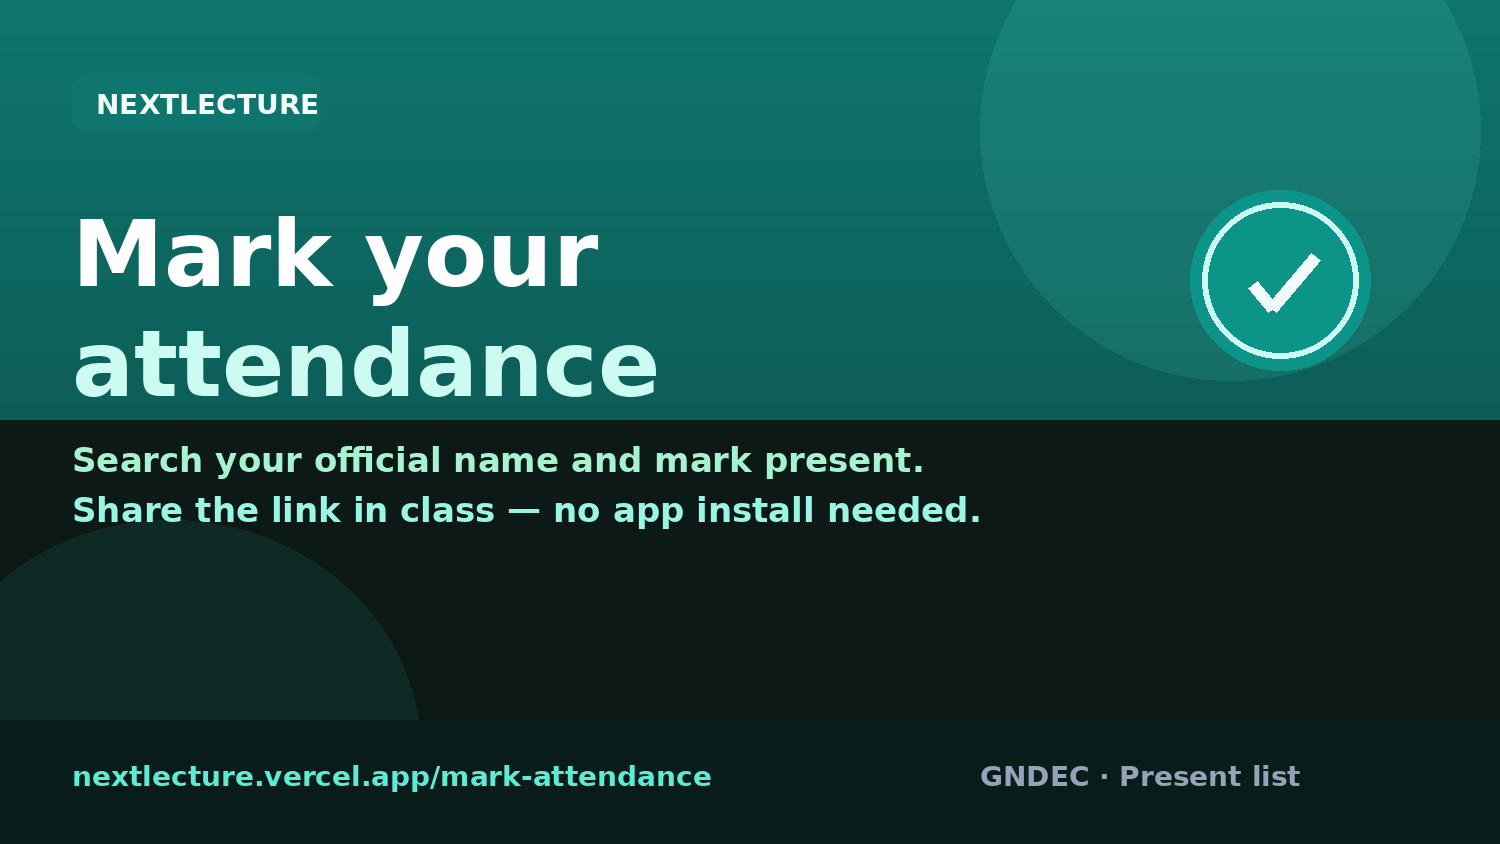
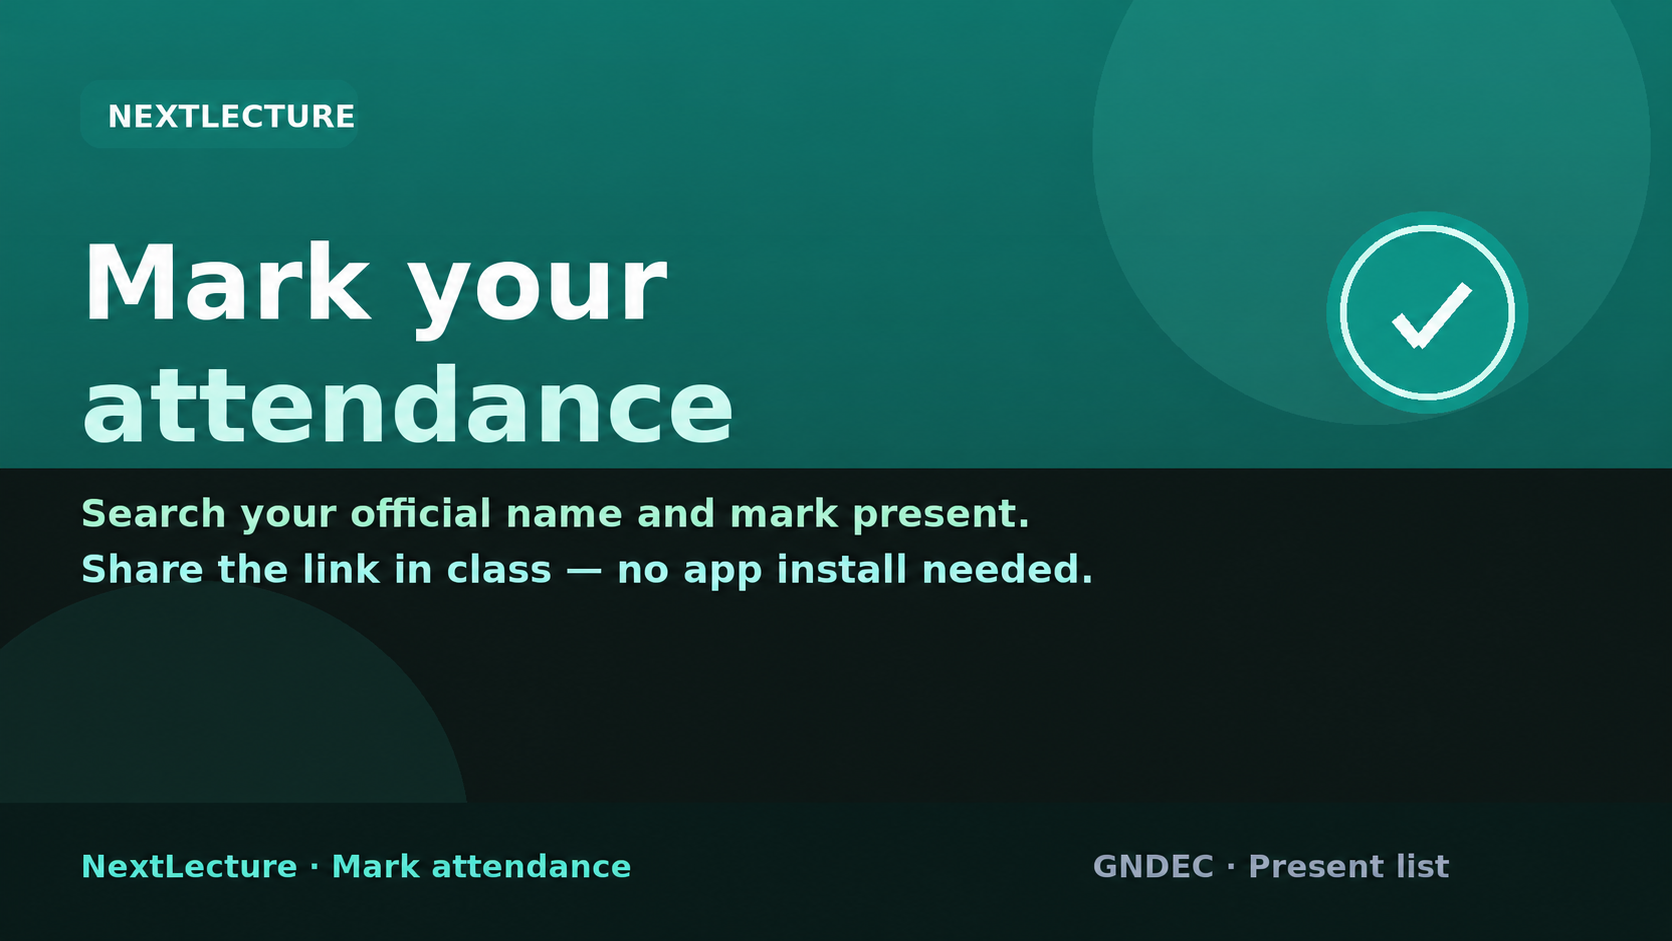
fix: make mark attendance preview domain neutral

diff --git a/api/index.js b/api/index.js
@@ -3516,8 +3516,8 @@ function escapeHtml(value) {
   return value.replace(/&/g, "&amp;").replace(/</g, "&lt;").replace(/>/g, "&gt;").replace(/"/g, "&quot;").replace(/'/g, "&#39;");
 }
 function absoluteUrl(req, path) {
-  const host = req.get("x-forwarded-host") || req.get("host") || "nextlecture.vercel.app";
-  const proto = (req.get("x-forwarded-proto") || "https").split(",")[0].trim();
+  const host = req.get("x-forwarded-host") || req.get("host") || "localhost";
+  const proto = (req.get("x-forwarded-proto") || (process.env.NODE_ENV === "production" ? "https" : "http")).split(",")[0].trim();
   return `${proto}://${host}${path}`;
 }
 function buildPreviewMeta(opts) {
@@ -3556,8 +3556,8 @@ async function handleMarkAttendancePage(req, res) {
   const pagePath = sessionId ? `/mark-attendance/${encodeURIComponent(sessionId)}` : "/mark-attendance";
   const pageUrl = absoluteUrl(req, pagePath);
   const imageUrl = absoluteUrl(req, "/og-mark-attendance.png");
-  const host = req.get("x-forwarded-host") || req.get("host") || "nextlecture.vercel.app";
-  const proto = (req.get("x-forwarded-proto") || "https").split(",")[0].trim();
+  const host = req.get("x-forwarded-host") || req.get("host") || "localhost";
+  const proto = (req.get("x-forwarded-proto") || (process.env.NODE_ENV === "production" ? "https" : "http")).split(",")[0].trim();
   const indexResponse = await fetch(`${proto}://${host}/index.html`);
   if (!indexResponse.ok) {
     throw new Error(`Could not load SPA shell (${indexResponse.status})`);
@@ -3579,6 +3579,7 @@ function handleMarkAttendanceOgImage(req, res) {
   const branch = typeof req.query.branch === "string" ? req.query.branch.trim().slice(0, 12) : "";
   const count = Math.max(0, Number.parseInt(String(req.query.count ?? "0"), 10) || 0);
   const safe = (value) => value.replace(/&/g, "&amp;").replace(/</g, "&lt;").replace(/>/g, "&gt;").replace(/"/g, "&quot;");
+  const footerUrl = safe(absoluteUrl(req, "/mark-attendance"));
   const subtitle = count > 0 ? `${count} marked present${branch ? ` \xB7 ${branch}` : ""}` : branch ? `${branch} \xB7 Mark present` : "Search your name and mark present";
   const words = subject.split(" ");
   let line1 = subject;
@@ -3616,7 +3617,7 @@ function handleMarkAttendanceOgImage(req, res) {
   <circle cx="1280" cy="300" r="72" fill="none" stroke="#ccfbf1" stroke-width="6"/>
   <path d="M1248 304 L1268 324 L1318 268" fill="none" stroke="#f0fdfa" stroke-width="14" stroke-linecap="round" stroke-linejoin="round"/>
   <rect x="0" y="720" width="1500" height="124" fill="#081c1a"/>
-  <text x="72" y="790" font-family="Manrope, system-ui, sans-serif" font-size="28" font-weight="600" fill="#5eead4">nextlecture.vercel.app/mark-attendance</text>
+  <text x="72" y="790" font-family="Manrope, system-ui, sans-serif" font-size="28" font-weight="600" fill="#5eead4">${footerUrl}</text>
   <text x="1100" y="790" font-family="Manrope, system-ui, sans-serif" font-size="26" font-weight="600" fill="#94a3b8">GNDEC \xB7 Present list</text>
 </svg>`;
   res.status(200).setHeader("Content-Type", "image/svg+xml; charset=utf-8").setHeader("Cache-Control", "public, max-age=300, s-maxage=600").send(svg);

diff --git a/server/markAttendanceOg.ts b/server/markAttendanceOg.ts
@@ -11,8 +11,10 @@ function escapeHtml(value: string): string {
 }
 
 function absoluteUrl(req: Request, path: string): string {
-  const host = req.get("x-forwarded-host") || req.get("host") || "nextlecture.vercel.app";
-  const proto = (req.get("x-forwarded-proto") || "https").split(",")[0].trim();
+  const host = req.get("x-forwarded-host") || req.get("host") || "localhost";
+  const proto = (req.get("x-forwarded-proto") || (process.env.NODE_ENV === "production" ? "https" : "http"))
+    .split(",")[0]
+    .trim();
   return `${proto}://${host}${path}`;
 }
 
@@ -70,8 +72,10 @@ export async function handleMarkAttendancePage(req: Request, res: Response) {
   const pageUrl = absoluteUrl(req, pagePath);
   const imageUrl = absoluteUrl(req, "/og-mark-attendance.png");
 
-  const host = req.get("x-forwarded-host") || req.get("host") || "nextlecture.vercel.app";
-  const proto = (req.get("x-forwarded-proto") || "https").split(",")[0].trim();
+  const host = req.get("x-forwarded-host") || req.get("host") || "localhost";
+  const proto = (req.get("x-forwarded-proto") || (process.env.NODE_ENV === "production" ? "https" : "http"))
+    .split(",")[0]
+    .trim();
   const indexResponse = await fetch(`${proto}://${host}/index.html`);
   if (!indexResponse.ok) {
     throw new Error(`Could not load SPA shell (${indexResponse.status})`);
@@ -112,6 +116,7 @@ export function handleMarkAttendanceOgImage(req: Request, res: Response) {
 
   const safe = (value: string) =>
     value.replace(/&/g, "&amp;").replace(/</g, "&lt;").replace(/>/g, "&gt;").replace(/"/g, "&quot;");
+  const footerUrl = safe(absoluteUrl(req, "/mark-attendance"));
 
   const subtitle =
     count > 0
@@ -157,7 +162,7 @@ export function handleMarkAttendanceOgImage(req: Request, res: Response) {
   <circle cx="1280" cy="300" r="72" fill="none" stroke="#ccfbf1" stroke-width="6"/>
   <path d="M1248 304 L1268 324 L1318 268" fill="none" stroke="#f0fdfa" stroke-width="14" stroke-linecap="round" stroke-linejoin="round"/>
   <rect x="0" y="720" width="1500" height="124" fill="#081c1a"/>
-  <text x="72" y="790" font-family="Manrope, system-ui, sans-serif" font-size="28" font-weight="600" fill="#5eead4">nextlecture.vercel.app/mark-attendance</text>
+  <text x="72" y="790" font-family="Manrope, system-ui, sans-serif" font-size="28" font-weight="600" fill="#5eead4">${footerUrl}</text>
   <text x="1100" y="790" font-family="Manrope, system-ui, sans-serif" font-size="26" font-weight="600" fill="#94a3b8">GNDEC · Present list</text>
 </svg>`;
 
